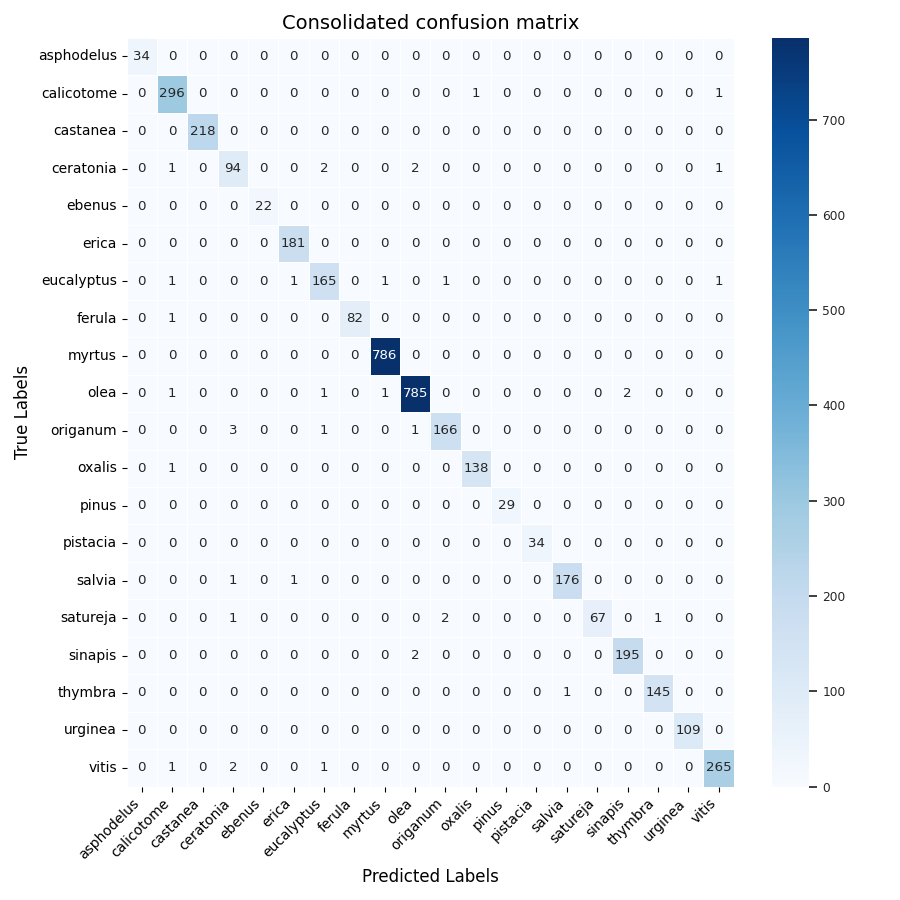
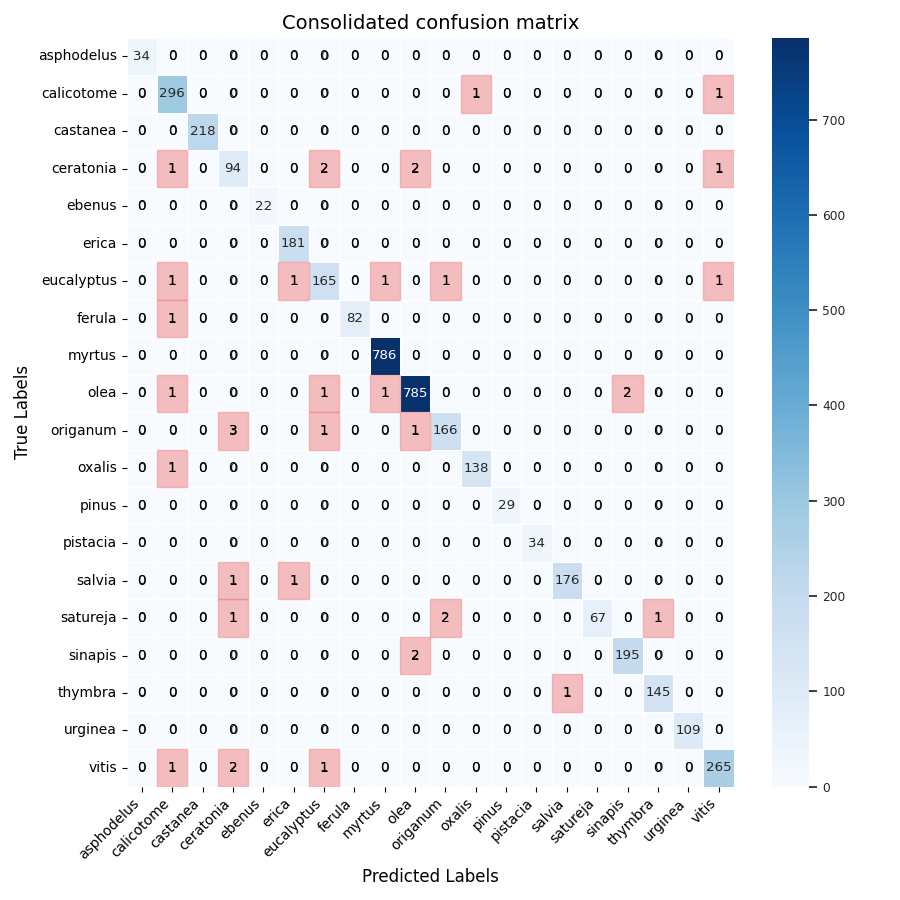
update 270225

diff --git a/discussion/teste_wilcoxon.py b/discussion/teste_wilcoxon.py
@@ -1,0 +1,102 @@
+import pandas as pd
+from scipy.stats import wilcoxon
+import argparse
+import os
+
+
+# Function to load the spreadsheet, perform comparisons, and apply tests
+def process_spreadsheet(file_path):
+    """
+    Reads a spreadsheet from the 'comparar' sheet, performs specific comparisons between the datasets
+    Orig 400 vs EQ 400 and Orig 400 vs PL 400, applies the Wilcoxon test, and adds interpretations of the results.
+    
+    :param file_path: Path to the Excel file with data.
+    :return: DataFrame with comparative analyses, Wilcoxon test results, and their interpretations.
+    """
+    # Load the data from the 'comparar' sheet
+    data = pd.read_excel(file_path, sheet_name="comparar")
+
+    # Filter the relevant datasets for comparisons
+    data_orig_eq = data[data['Base'].isin(['Orig 400', 'EQ 400'])]
+    data_orig_pl = data[data['Base'].isin(['Orig 400', 'PL 400'])]
+
+    # Specific comparisons
+    data_eq_comparison = data_orig_eq[data_orig_eq['Base'].isin(['Orig 400', 'EQ 400'])]
+    data_pl_comparison = data_orig_pl[data_orig_pl['Base'].isin(['Orig 400', 'PL 400'])]
+
+    # Perform the comparison for each relevant metric
+    results = []
+
+    for metric in ['Accuracy', 'Precision', 'Recall', 'F1-Score']:
+        # Comparison Orig 400 vs EQ 400
+        try:
+            comparison_eq = data_eq_comparison.pivot(index="Classes", columns="Base", values=metric).dropna()
+            stat_eq, p_value_eq = wilcoxon(comparison_eq['Orig 400'], comparison_eq['EQ 400'])
+            interpretation_eq = "Significant" if p_value_eq < 0.05 else "Not significant"
+        except ValueError:
+            stat_eq, p_value_eq, interpretation_eq = None, None, "Error"
+
+        results.append({
+            "Base_1": "Orig 400",
+            "Base_2": "EQ 400",
+            "Metric": metric,
+            "Stat": stat_eq,
+            "P-Value": p_value_eq,
+            "Interpretation": interpretation_eq
+        })
+
+        # Comparison Orig 400 vs PL 400
+        try:
+            comparison_pl = data_pl_comparison.pivot(index="Classes", columns="Base", values=metric).dropna()
+            stat_pl, p_value_pl = wilcoxon(comparison_pl['Orig 400'], comparison_pl['PL 400'])
+            interpretation_pl = "Significant" if p_value_pl < 0.05 else "Not significant"
+        except ValueError:
+            stat_pl, p_value_pl, interpretation_pl = None, None, "Error"
+
+        results.append({
+            "Base_1": "Orig 400",
+            "Base_2": "PL 400",
+            "Metric": metric,
+            "Stat": stat_pl,
+            "P-Value": p_value_pl,
+            "Interpretation": interpretation_pl
+        })
+
+    # Create a DataFrame with the test results
+    results_df = pd.DataFrame(results)
+
+    return results_df
+
+
+# Main function to handle command-line arguments
+if __name__ == "__main__":
+    # Default file path configuration
+    default_path = 'discussion/Comparar_literatura_CPD1.xlsx'
+    
+    # Set up argparse to handle command-line arguments
+    parser = argparse.ArgumentParser(description="Run the pollen classification process.")
+    parser.add_argument(
+        '--path', 
+        type=str, 
+        default=default_path, 
+        help="Path to the workbook. If not provided, the default path will be used."
+    )
+
+    args = parser.parse_args()
+    
+    # Check if the given path exists
+    if not os.path.exists(args.path):
+        print(f"Warning: The provided workbook path '{args.path}' does not exist.")
+        print("Using default workbook path.")
+        args.path = default_path
+
+    # Perform comparative analysis and Wilcoxon test
+    results = process_spreadsheet(args.path)
+
+    # Load the original spreadsheet and save the results in a new sheet
+    with pd.ExcelWriter(args.path, engine="openpyxl", mode="a") as writer:
+        # Save the Wilcoxon test results in a new sheet called "results"
+        results.to_excel(writer, index=False, sheet_name="results")
+
+    # Display completion message
+    print(f"The results and their interpretations have been saved in the new 'results' sheet of the spreadsheet: {args.path}")

diff --git a/discussion/compared_metrics.py b/discussion/compared_metrics.py
@@ -1,0 +1,46 @@
+import pandas as pd
+from openpyxl import load_workbook
+from openpyxl.styles import Font
+
+def compare_metrics(input_file):
+    # Carregar a planilha
+    df = pd.read_excel(input_file, sheet_name="comparar")
+    
+    # Criar DataFrames para cada base
+    orig_400 = df[df['Base'] == 'Orig 400']
+    eq_400 = df[df['Base'] == 'EQ 400']
+    pl_400 = df[df['Base'] == 'PL 400']
+    
+    # Função para comparar métricas
+    def compare(df1, df2):
+        return df1.merge(df2, on='Classes', suffixes=('_orig', '_comp'))
+    
+    # Comparações
+    comparison_eq = compare(orig_400, eq_400)
+    comparison_pl = compare(orig_400, pl_400)
+    
+    # Criar um escritor de planilhas
+    with pd.ExcelWriter(input_file, engine='openpyxl', mode="a") as writer:
+        comparison_eq.to_excel(writer, sheet_name='Comparison_Orig_EQ', index=False)
+        comparison_pl.to_excel(writer, sheet_name='Comparison_Orig_PL', index=False)
+    
+    # Destacar valores melhorados/neutros em negrito
+    wb = load_workbook(input_file)
+    for sheet_name in ['Comparison_Orig_EQ', 'Comparison_Orig_PL']:
+        ws = wb[sheet_name]
+        header = {cell.value: cell.column for cell in ws[1]}
+        
+        for row in range(2, ws.max_row + 1):
+            for metric in ['Accuracy', 'Precision', 'Recall', 'F1-Score']:
+                col_comp = header[f'{metric}_comp']
+                col_orig = header[f'{metric}_orig']
+                
+                if ws.cell(row, col_comp).value >= ws.cell(row, col_orig).value:  # Se melhorou ou manteve
+                    ws.cell(row, col_comp).font = Font(bold=True)
+    
+    wb.save(input_file)
+    print(f'✅ Comparação salva e destacada em {input_file}')
+
+# Exemplo de uso
+input_file = "discussion/Comparar_literatura_CPD1.xlsx"  # Nome do arquivo de entrada
+compare_metrics(input_file)

diff --git a/models/consolidated_matrix.py b/models/consolidated_matrix.py
@@ -77,6 +77,16 @@ def sum_and_plot_confusion_matrices(folder_path, output_csv_path, output_image_p
     ax.set_xticklabels(ax.get_xticklabels(), rotation=45, ha='right', fontsize=10)
     ax.set_yticklabels(ax.get_yticklabels(), rotation=0, ha='right', fontsize=10)
 
+    # Annotate non-diagonal cells with custom background and text color
+    for i in range(len(mat)):
+        for j in range(len(mat)):
+            value = mat[i, j]
+            if i != j:  # Only for off-diagonal elements
+                if value > 0:
+                    ax.add_patch(plt.Rectangle((j, i), 1, 1, fill=True, color='lightcoral', alpha=0.5))
+                ax.text(j + 0.5, i + 0.5, f'{value:.2f}' if normalize else f'{int(value)}', 
+                        ha='center', va='center', color='black', fontsize=10)
+
     plt.tight_layout()
     fig.savefig(output_image_path)
     plt.close(fig)
